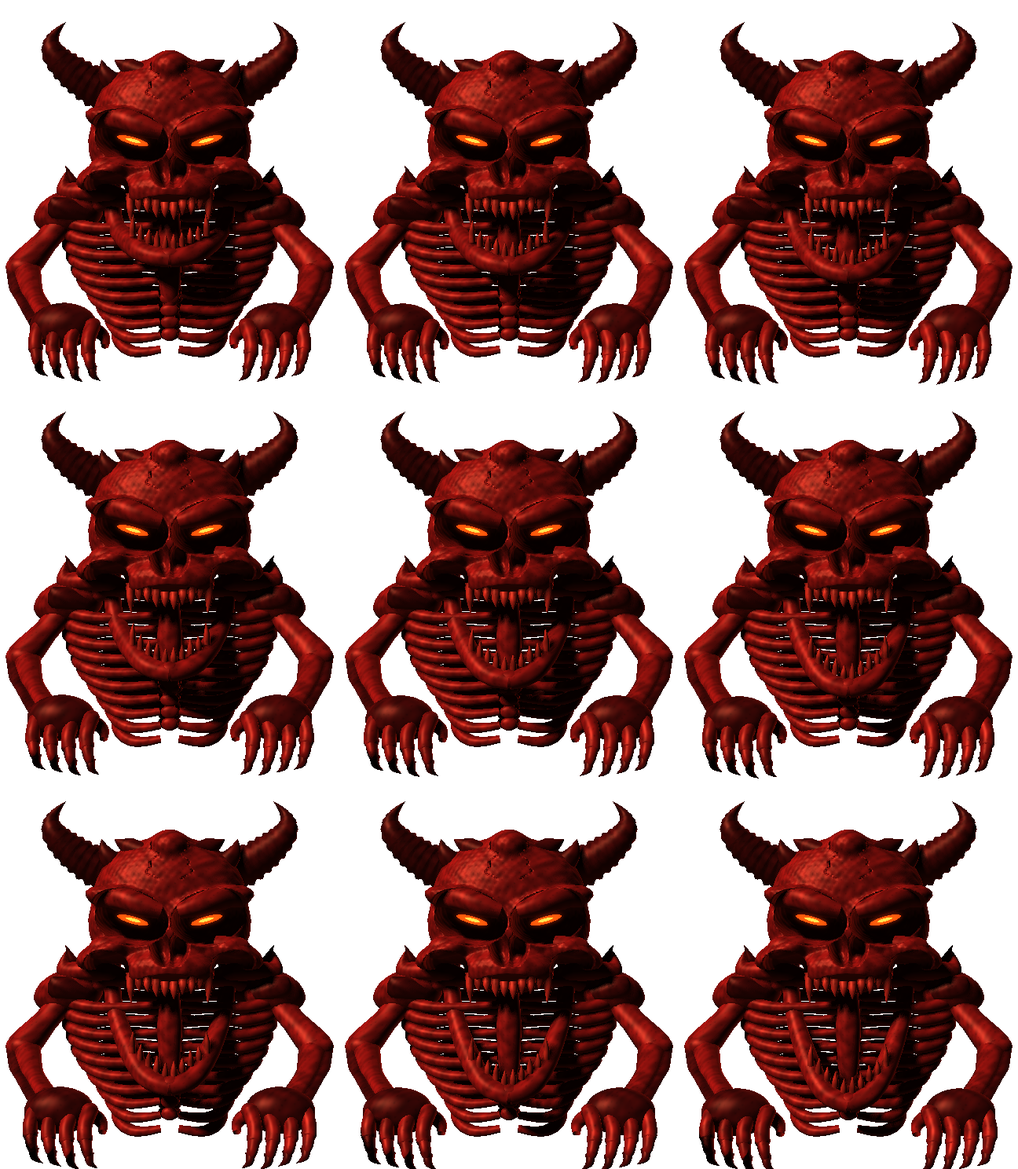
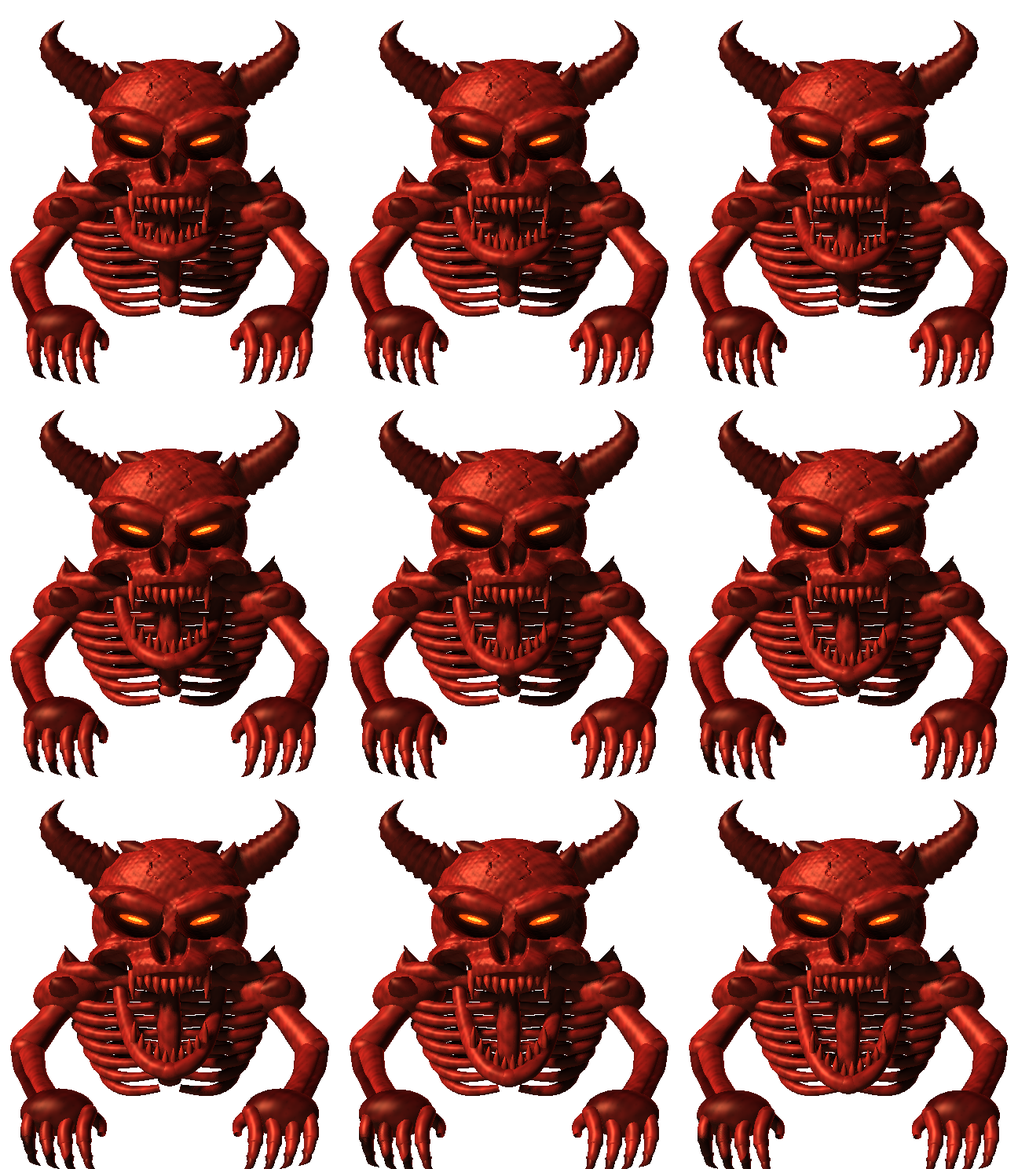
Refine SSL console ergonomics and restore natural Demon proportions

diff --git a/Source/PluginEditor.cpp b/Source/PluginEditor.cpp
@@ -29,8 +29,8 @@ static void paintSSLReduction(Graphics& g,Rectangle<float> r,float db,float peak
         g.setColour(Colour(0xffc9cfc1));g.setFont(font(7.8f,true));
         g.drawText(label,left,y,width*.62f,11,juce::Justification::centredLeft);
         g.drawText((output&&value<=-60.f)?juce::String("-INF"):juce::String(value,1),left+width*.55f,y,width*.45f,11,juce::Justification::centredRight);
-        for(int i=0;i<n;++i){const auto v=Rectangle<float>(left+i*step,y+12,step-.9f,8.f);const bool on=i<lit;const auto c=output?(i>=14?Colour(0xffef6150):i>=11?Colour(0xffd8ae44):Colour(0xff73cb67)):Colour(0xffe6ad51);
-            g.setGradientFill(juce::ColourGradient::vertical(on?c.brighter(.32f):Colour(0xff30342a),v.getY(),on?c.darker(.42f):Colour(0xff161915),v.getBottom()));g.fillRoundedRectangle(v,.65f);}
+        for(int i=0;i<n;++i){const float d=juce::jmin(4.3f,step-1.f);const auto v=Rectangle<float>(left+i*step+(step-d)*.5f,y+13,d,d);const bool on=i<lit;const auto c=output?(i>=14?Colour(0xffef6150):i>=11?Colour(0xffd8ae44):Colour(0xff73cb67)):Colour(0xffe6ad51);
+            g.setGradientFill(juce::ColourGradient::vertical(on?c.brighter(.32f):Colour(0xff30342a),v.getY(),on?c.darker(.42f):Colour(0xff161915),v.getBottom()));g.fillEllipse(v);}
     };
     line(r.getY()+7,"GR dB",std::abs(db)<.05f?0.f:-std::abs(db),juce::jlimit(0,n,int(std::ceil(std::abs(db)*n/20.f))),false);
     line(r.getY()+34,"OUT dBFS",peak,juce::jlimit(0,n,int(std::ceil((peak+60.f)*n/60.f))),true);
@@ -75,6 +75,14 @@ void KnobCell::setLightFace(bool light) {
 void KnobCell::setSprite(int) { slider.setSliderStyle(juce::Slider::RotaryVerticalDrag); }
 
 void KnobCell::resized() {
+    if(bool(slider.getProperties().getWithDefault("sslAux",false))&&!compact_){
+        const int size=juce::jmax(1,juce::jmin(getWidth()/2,getHeight()-3,43));
+        slider.setBounds(1,(getHeight()-size)/2,size,size);return;
+    }
+    if(bool(slider.getProperties().getWithDefault("sslSwitch",false))&&!compact_){
+        const int size=juce::jmax(1,juce::jmin(getWidth()-4,getHeight()-11,43));
+        slider.setBounds((getWidth()-size)/2,0,size,size);return;
+    }
     if(bool(slider.getProperties().getWithDefault("consoleCell",false))&&!compact_){
         const int size=juce::jmax(1,juce::jmin(getWidth()-2,getHeight()-20,bool(slider.getProperties().getWithDefault("dopeRow",false))?72:43));
         slider.setBounds((getWidth()-size)/2,juce::jmax(0,(getHeight()-size-20)/2),size,size);return;
@@ -97,6 +105,8 @@ void KnobCell::resized() {
 bool KnobCell::controlGeometryValid() const noexcept {
     const auto b=slider.getBounds();
     if(b.isEmpty()||!getLocalBounds().contains(b))return false;
+    if(bool(slider.getProperties().getWithDefault("sslAux",false)))return b.getWidth()==b.getHeight()&&b.getRight()+15<getWidth();
+    if(bool(slider.getProperties().getWithDefault("sslSwitch",false)))return b.getWidth()==b.getHeight()&&b.getBottom()+10<=getHeight();
     if(bool(slider.getProperties().getWithDefault("consoleCell",false)))return b.getWidth()==b.getHeight()&&b.getWidth()<=(bool(slider.getProperties().getWithDefault("dopeRow",false))?72:43)&&b.getBottom()+18<=getHeight();
     if(bool(slider.getProperties().getWithDefault("hushFader",false))&&!compact_)return b.getBottom()+28<=getHeight();
     if(b.getWidth()!=b.getHeight())return false;
@@ -152,9 +162,18 @@ void KnobCell::paint(Graphics& g) {
         return;
     }
     const int y=juce::jmin(getHeight()-30,slider.getBottom()+3);
+    if(bool(slider.getProperties().getWithDefault("sslAux",false))){
+        auto text=getLocalBounds().withTrimmedLeft(slider.getRight()+2);const int cy=getHeight()/2;
+        g.setColour(Colour(0xffe8e5d9));g.setFont(font(9.6f,true));g.drawFittedText(label_,text.withY(cy-10).withHeight(10),juce::Justification::centred,1);
+        g.setColour(Colour(0xffb4c2b9));g.setFont(font(9.4f));g.drawFittedText(text_,text.withY(cy).withHeight(11),juce::Justification::centred,1);return;
+    }
+    if(bool(slider.getProperties().getWithDefault("sslSwitch",false))){
+        g.setColour(Colour(0xffece9dc));g.setFont(font(9.f,true));
+        g.drawFittedText(label_,Rectangle<int>(0,getHeight()-11,getWidth(),11),juce::Justification::centred,1);return;
+    }
     if(bool(slider.getProperties().getWithDefault("consoleCell",false))){
         const int yy=juce::jmin(getHeight()-19,slider.getBottom()+1);
-        const float fs=bool(slider.getProperties().getWithDefault("dopeRow",false))?12.f:getWidth()<40?8.3f:9.7f;
+        const float fs=bool(slider.getProperties().getWithDefault("dopeRow",false))?12.f:getWidth()<40?8.9f:10.2f;
         g.setColour(lightFace_?Colour(0xff252322):Colour(0xffe3e1d9));g.setFont(font(fs,true));
         g.drawFittedText(label_,Rectangle<int>(0,yy,getWidth(),10),juce::Justification::centred,1);
         g.setColour(lightFace_?Colour(0xff37332a):Colour(0xffb4c2b9));g.setFont(font(fs));
@@ -261,7 +280,7 @@ void SlotComponent::rebuild() {
             const bool ext=type==SkellSSL&&j>=kMaxKnobs;
             const int extIndex=ext?j-kMaxKnobs:-1;
             Knob k=ext?sslControl(extIndex).knob:mi.knobs[j];
-            if(type==SkellSSL){if(j==0)k.label="E/G";if(extIndex==SslThreshold)k.label="THR BASE";if(extIndex==SslRatio)k.label="RATIO";}
+            if(type==SkellSSL){if(j==0)k.label="E/G";if(extIndex==SslThreshold)k.label="THRESH";if(extIndex==SslRatio)k.label="RATIO";}
             auto* param=proc.apvts.getParameter(ext?SkellierProcessor::sslId(index,extIndex):SkellierProcessor::knobId(index,j));
             auto cell=std::make_unique<KnobCell>(k.label,*param,[k,extIndex,type=type](double n){
                 if(type!=SkellSSL)return knobText(k,float(n));
@@ -285,11 +304,17 @@ void SlotComponent::rebuild() {
             if(type==SkellNoise&&j==0){cell->slider.getProperties().set("hushFader",true);cell->slider.setSliderStyle(juce::Slider::LinearVertical);}
             if(type==SkellSSL){
                 cell->slider.getProperties().set("consoleCell",true);
+                if(k.steps==2)cell->slider.getProperties().set("sslSwitch",true);
+                if(extIndex==SslHMQ||extIndex==SslLMQ||extIndex==SslOutput)cell->slider.getProperties().set("sslAux",true);
                 // Restore shared rotating Skelliere skull cap; keep compact console geometry.
                 static const unsigned caps[]={0xffa5a79e,0xffa16b3e,0xff32698f,0xff3b7650,0xffa92c31,0xffbb393b};
                 unsigned cap=ext?0xffa5a6a0:caps[j];
                 if(extIndex==SslInput||extIndex==SslOutput)cap=0xffb6443c;
                 if(extIndex==SslHP||extIndex==SslLP)cap=0xff51865d;
+                if(extIndex==SslHFFreq)cap=0xffa92c31;
+                if(extIndex==SslHMFreq||extIndex==SslHMQ)cap=0xff3b7650;
+                if(extIndex==SslLMFreq||extIndex==SslLMQ)cap=0xff32698f;
+                if(extIndex==SslLFFreq)cap=0xffa16b3e;
                 if(extIndex==SslExpThreshold)cap=0xff41865b;
                 if(extIndex==SslThreshold)cap=0xffb63a33;
                 cell->slider.getProperties().set("houseTint",juce::String::toHexString(int(cap)));
@@ -482,18 +507,21 @@ void SlotComponent::paintNativeFace(Graphics& g) {
         const auto layout=originalLayout(type,w,editing);
         if(!layout.detail.isEmpty()){if(type==SkellDemon)paintDemonDetail(pg,layout.detail.toFloat());else if(isAirPanel(type))paintAirDetail(pg,layout.detail.toFloat(),type);else if(type==Reverb||type==Chorus)paintSpaceDetail(pg,layout.detail.toFloat(),type);else if(type==Sat||type==SoftClip||type==Eq||type==Tremolo||type==Phaser||type==Stereo||type==Transient)paintWorkshopDetail(pg,layout.detail.toFloat(),type);else paintTapeDetail(pg,layout.detail.toFloat(),type==Delay&&nativeChoice==1);}
         if(type==SkellSSL){
-            const int lane=(w-24)/2;
-            pg.setColour(Colour(0xff202321));pg.fillRect(10,75,w-20,tallPanelY(548)-75);
-            paintPeened(pg,Rectangle<float>(10,75,float(w-20),float(tallPanelY(548)-75)),.53f);
-            paintAnalogWear(pg,Rectangle<float>(10,75,float(w-20),float(tallPanelY(548)-75)),false,4632,.48f);
-            pg.setColour(Colour(0xff292d2c));pg.drawVerticalLine(12+lane,75,tallPanelY(548));
+            const int lane=(w-22)/2;
+            const auto console=Rectangle<float>(8,75,float(w-16),float(tallPanelY(548)-75));
+            pg.setGradientFill(juce::ColourGradient::vertical(Colour(0xff343836),console.getY(),Colour(0xff212422),console.getBottom()));pg.fillRect(console);
+            paintPeened(pg,console,.62f);
+            paintAnalogWear(pg,console,false,4632,.42f);
+            pg.setColour(Colour(0xff121715));pg.drawVerticalLine(10+lane,75,tallPanelY(548));
+            pg.setColour(Colour(0xff6c7169).withAlpha(.55f));pg.drawVerticalLine(11+lane,75,tallPanelY(548));
             auto section=[&](int x,int y,int ww,const char* label){
-                pg.setColour(Colour(0xff5c625e).withAlpha(.8f));y=tallPanelY(y);pg.drawHorizontalLine(y,float(x),float(x+ww));
-                pg.setColour(Colour(0xffdfdfd4));pg.setFont(font(9.f,true).withExtraKerningFactor(.025f));
+                y=tallPanelY(y);pg.setColour(Colour(0xff080b09).withAlpha(.66f));pg.drawHorizontalLine(y,float(x),float(x+ww));
+                pg.setColour(Colour(0xffc5c8bb).withAlpha(.36f));pg.drawHorizontalLine(y+1,float(x),float(x+ww));
+                pg.setColour(Colour(0xfff2f0e5));pg.setFont(font(10.f,true).withExtraKerningFactor(.02f));
                 pg.drawFittedText(label,Rectangle<int>(x+2,y+2,ww-4,15),juce::Justification::centredLeft,1);
             };
-            section(10,85,lane-2,"INPUT");section(10,157,lane-2,"FILTERS");section(10,229,lane-2,"COMPRESSOR");section(10,351,lane-2,"GATE / EXP");section(10,473,lane-2,"OUTPUT");
-            section(14+lane,85,lane-2,"EQUALIZER / HF");section(14+lane,175,lane-2,"HMF");section(14+lane,265,lane-2,"LMF");section(14+lane,355,lane-2,"LF");section(14+lane,445,lane-2,"DYNAMICS / OUT");
+            section(9,84,lane-2,"INPUT");section(9,160,lane-2,"FILTERS");section(9,233,lane-2,"COMPRESSOR");section(9,355,lane-2,"GATE / EXP");section(9,474,lane-2,"OUTPUT");
+            section(13+lane,84,lane-2,"EQUALIZER / HF");section(13+lane,174,lane-2,"HMF");section(13+lane,265,lane-2,"LMF");section(13+lane,356,lane-2,"LF");section(13+lane,452,lane-2,"DYNAMICS / OUT");
             paintSSLReduction(pg,layout.meter.toFloat(),0,-60,true);
         }
         else if(type==SkellDope){

diff --git a/tools/render_demon_relief.py b/tools/render_demon_relief.py
@@ -14,7 +14,7 @@ import argparse
 
 W,H=432,496
 FRAMES=9
-SCALE=155.0
+SCALE=157.0
 CAM=4.1
 
 class Mesh:
@@ -76,15 +76,15 @@ def skull_mesh(mesh):
         h=np.maximum(k-np.abs(a-b),0)/k;return np.minimum(a,b)-h*h*k*.25
     s=e((0,.47,.08),(.48,.415,.35))
     s=union(s,e((0,.20,.19),(.345,.29,.30)))
-    s=union(s,e((0,.77,.20),(.14,.13,.21)),.035)
+    s=union(s,e((0,.64,.19),(.115,.15,.16)),.035)
     s=union(s,e((0,-.018,.335),(.295,.145,.23)))
     for side in (-1,1):
-        s=union(s,e((side*.365,.095,.27),(.21,.095,.207),-side*.42))
+        s=union(s,e((side*.345,.095,.24),(.184,.081,.185),-side*.42))
         s=union(s,e((side*.235,.405,.35),(.267,.096,.155),side*.24),.025)
         s=union(s,e((side*.365,.29,.09),(.145,.24,.24)),.03)
         # Outer edge of the orbit higher, inner lower: threatening brow.
-        s=np.maximum(s,-e((side*.238,.305,.445),(.237,.172,.40),side*.31))
-        s=np.maximum(s,-e((side*.365,-.015,.415),(.139,.113,.235),side*.30))
+        s=np.maximum(s,-e((side*.228,.305,.445),(.196,.146,.40),side*.32))
+        s=np.maximum(s,-e((side*.345,-.015,.415),(.132,.104,.245),side*.30))
         s=np.maximum(s,-e((side*.048,.105,.487),(.062,.12,.205),-side*.24))
     s=np.maximum(s,-e((0,-.188,.53),(.29,.138,.27)))
     # Fine nonuniform erosion, subdued enough to keep a continuous skull.
@@ -107,17 +107,17 @@ def skull_mesh(mesh):
 def build_static():
     m=Mesh()
     # Back spine and six separate curved ribs, no flat diagram lines.
-    for i in range(16):ellipsoid(m,(0,-.20-i*.073,-.16),(.101,.052,.094),3)
+    for i in range(12):ellipsoid(m,(0,-.20-i*.073,-.16),(.093,.052,.084),3)
     for side in (-1,1):
         X=lambda x:side*x
-        for i in range(10):
-            y=-.255-i*.105;w=.70-i*.032
+        for i in range(7):
+            y=-.255-i*.104;w=.67-i*.040
             tube(m,[(X(.06),y+.04,-.17),(X(w*.72),y+.065,-.11),(X(w),y-.015,.10),(X(w*.72),y-.10,.27),(X(.07),y-.08,.30)], [.046,.051,.057,.042,.028],0,32,16)
         tube(m,[(X(.04),-.20,.22),(X(.34),-.14,.23),(X(.56),-.19,.12),(X(.68),-.14,.06)],[.065,.065,.074,.05],0,22)
         # Scapula spike and skeletal shoulder joint.
         tube(m,[(X(.45),-.23,-.02),(X(.64),-.15,-.02),(X(.87),.13,-.07)],[.14,.092,.002],3,18)
-        ellipsoid(m,(X(.70),-.245,.10),(.239,.186,.184),0)
-        tube(m,[(X(.70),-.25,.11),(X(.77),-.44,.20),(X(.87),-.64,.35)],[.123,.094,.105],0,22,18)
+        ellipsoid(m,(X(.70),-.245,.10),(.257,.201,.201),0)
+        tube(m,[(X(.70),-.25,.11),(X(.77),-.44,.20),(X(.87),-.64,.35)],[.144,.102,.112],0,22,18)
         ellipsoid(m,(X(.87),-.64,.35),(.105,.09,.095),0)
         tube(m,[(X(.85),-.65,.36),(X(.76),-.81,.60),(X(.66),-.91,.85)],[.082,.057,.062],0,22,18)
         tube(m,[(X(.93),-.65,.33),(X(.84),-.83,.59),(X(.74),-.93,.84)],[.050,.043,.049],3,18)
@@ -130,11 +130,11 @@ def build_static():
         # Small horn roots join the cranium, avoiding floating cones.
         ellipsoid(m,(X(.37),.68,.04),(.16,.17,.14),0)
     # Front sternum and rib anchors.
-    tube(m,[(0,-.25,.28),(0,-.48,.32),(0,-.80,.31),(0,-1.13,.26)],[.066,.078,.064,.024],0,40,18)
-    for i in range(10):ellipsoid(m,(0,-.34-i*.091,.32),(.063,.050,.031),0)
+    tube(m,[(0,-.25,.28),(0,-.48,.32),(0,-.80,.31),(0,-.90,.26)],[.066,.078,.060,.024],0,40,18)
+    for i in range(7):ellipsoid(m,(0,-.34-i*.091,.32),(.063,.050,.031),0)
     # Broaden the shoulder girdle, keep the ribs and sternum in perspective.
     for k in range(len(m.v)):
-        vv=m.v[k]; factor=1.0+.26*np.clip((-vv[:,1]+.12)/.65,0,1)*np.clip((vv[:,1]+1.18)/.40,0,1)
+        vv=m.v[k]; factor=1.0+.21*np.clip((-vv[:,1]+.12)/.65,0,1)*np.clip((vv[:,1]+1.18)/.40,0,1)
         vv[:,0]*=factor
         m.n[k][:,0]/=factor
         m.n[k]/=np.maximum(np.linalg.norm(m.n[k],axis=1,keepdims=True),1e-8)
@@ -147,7 +147,7 @@ def build_static():
         ellipsoid(m,(side*.222,.300,.275),(.098,.024,.028),1,side*.30)
         ellipsoid(m,(side*.217,.299,.302),(.046,.010,.013),4,side*.30)
         # Sharper zygomatic spurs and brow ridge, receding in the temple.
-        tube(m,[(side*.27,.135,.36),(side*.41,.11,.37),(side*.48,.06,.22)],[.059,.071,.009],0,20,16)
+        tube(m,[(side*.25,.135,.35),(side*.37,.11,.34),(side*.43,.06,.22)],[.047,.058,.009],0,20,16)
         tube(m,[(side*.11,.73,.25),(side*.24,.79,.19),(side*.34,.86,.10)],[.056,.065,.009],3,18,16)
         # Spiked cranial ridge, framing the angry face.
         tube(m,[(side*.30,.65,.14),(side*.39,.75,.15),(side*.43,.87,.08)],[.087,.055,.002],3,18,14)
@@ -158,19 +158,19 @@ def build_static():
         tube(m,[(x,y,z),(x,y-l*.53,z+.014),(x*.98,y-l,z+.002)],[.027,.022,.004],2,10,12)
     # Bring the skull toward the listener; keep the horns anchored to the cranium.
     for k in range(head_start,len(m.v)):
-        m.v[k][:,0]*=1.25;m.v[k][:,1]=.27+(m.v[k][:,1]-.27)*1.15;m.v[k][:,2]+=.07
-        m.n[k][:,0]/=1.25;m.n[k][:,1]/=1.15;m.n[k]/=np.maximum(np.linalg.norm(m.n[k],axis=1,keepdims=True),1e-8)
+        m.v[k][:,0]*=1.18;m.v[k][:,1]=.27+(m.v[k][:,1]-.27)*1.10;m.v[k][:,2]+=.07
+        m.n[k][:,0]/=1.18;m.n[k][:,1]/=1.10;m.n[k]/=np.maximum(np.linalg.norm(m.n[k],axis=1,keepdims=True),1e-8)
     return m
 
 def add_jaw(m,open_amt):
     # Hinge-driven 3D jaw, rotating the chin forward and down, not a flat mouth overlay.
     # Y displacement grows toward the front of the mandible.
     def pose(p):
-        x,y,z=p;w=np.clip((z-.11)/.44,0,1);return (x*1.25,.27+(y-open_amt*.40*w-.27)*1.15,z+open_amt*.083*w+.07)
+        x,y,z=p;w=np.clip((z-.11)/.44,0,1);return (x*1.18,.27+(y-open_amt*.33*w-.27)*1.10,z+open_amt*.083*w+.07)
     for side in (-1,1):
         X=lambda x:side*x
-        points=[(X(.36),.015,.09),(X(.34),-.235,.17),(X(.235),-.36,.36),(X(.13),-.414,.49),(0,-.435,.53)]
-        tube(m,[pose(p) for p in points],[.069,.067,.078,.070,.065],0,34,18)
+        points=[(X(.33),.015,.09),(X(.31),-.22,.17),(X(.226),-.35,.36),(X(.122),-.405,.49),(0,-.427,.53)]
+        tube(m,[pose(p) for p in points],[.062,.059,.068,.063,.059],0,34,18)
     ellipsoid(m,pose((0,-.423,.53)),(.10,.063,.059),0)
     for i in range(10):
         x=(i-4.5)*.047;z=.523-.085*(abs(x)/.22)**1.4;y=-.386+.018*abs(i-4.5)
@@ -181,7 +181,7 @@ def add_hands(m,amt):
     # Foreground joints and claws reach past the window frame in perspective.
     for side in (-1,1):
         X=lambda x:side*x;reach=amt*.16
-        ellipsoid(m,(X(.69),-.935,.86+reach),(.218,.143,.121),3)
+        ellipsoid(m,(X(.69),-.935,.86+reach),(.231,.142,.129),3)
         for i in range(4):
             x=.49+i*.112;y=-.93+(.012*abs(i-1));z=.875+.015*(3-i)+reach
             ellipsoid(m,(X(x),y,z),(.052,.045,.049),0)
@@ -239,11 +239,13 @@ def render(mesh):
     # Pitted, ridged bone rather than polished plastic. Multi-frequency material
     # variation is spatially stable over all nine animation frames.
     pore=np.sin(pp[:,0]*113+np.sin(pp[:,1]*57))*np.sin(pp[:,1]*127+np.sin(pp[:,2]*63))*np.sin(pp[:,2]*131+pp[:,0]*61)
-    texture=.79+.11*np.sin(pp[:,0]*39+2*np.sin(pp[:,1]*31)+np.sin(pp[:,2]*45))+.065*np.sin(pp[:,1]*59+2*np.sin(pp[:,2]*36+pp[:,0]*23))+.046*np.sin(pp[:,2]*140+pp[:,0]*97)-.17*np.maximum(pore,0)**3
-    colors=np.array([[.48,.050,.037],[1.0,.14,.008],[.66,.108,.064],[.24,.025,.020],[1.,.58,.12]])[mat[mask]]
+    texture=.83+.10*np.sin(pp[:,0]*39+2*np.sin(pp[:,1]*31)+np.sin(pp[:,2]*45))+.065*np.sin(pp[:,1]*59+2*np.sin(pp[:,2]*36+pp[:,0]*23))+.046*np.sin(pp[:,2]*140+pp[:,0]*97)-.12*np.maximum(pore,0)**3
+    colors=np.array([[.52,.070,.051],[1.0,.14,.008],[.66,.108,.064],[.24,.025,.020],[1.,.58,.12]])[mat[mask]]
     rgb=colors*texture[:,None]*(.049+1.43*D[:,None]*vis[:,None])
-    rgb+=np.array([.61,.065,.030])*rim[:,None]*(.50+.50*fres[:,None])
-    rgb+=np.array([.93,.46,.29])*spec[:,None]*(.19+.16*texture[:,None])
+    rgb+=np.array([.54,.067,.035])*rim[:,None]*(.45+.55*fres[:,None])
+    rgb+=np.array([.96,.56,.35])*spec[:,None]*(.28+.18*texture[:,None])
+    # Subtle warm bounce from the crimson enclosure and cold upper-edge reflection.
+    rgb+=np.array([.14,.052,.032])*np.maximum(N@np.array([-.38,-.26,.72]),0)[:,None]*(.45+.55*texture[:,None])
     # Subtle red up-light, keeps shadows deep rather than flattening into orange.
     rgb+=np.array([.085,.010,.005])*np.maximum(-N[:,1],0)[:,None]
     emissive=mat[mask]==1;hot=mat[mask]==4

diff --git a/Source/OriginalPanel.h b/Source/OriginalPanel.h
@@ -41,36 +41,35 @@ inline OriginalLayout originalLayoutBase(int type,int width,bool editing=false) 
     if(type==Delay||type==Slap||type==Air||type==SkellAirFX||type==Reverb||type==Chorus||type==Sat||type==SoftClip||type==Eq||type==Tremolo||type==Phaser||type==Stereo||type==Transient)l.detail={16,106,width-32,120};
     if(type==Eq)l.detail.setHeight(82);
     if(type==SkellDemon){
-        l.detail={7,101,width-14,290};
-        const int cw=(width-24)/3,rh=(editing?519:547)-394;
-        for(int k=0;k<6;++k)l.cells[k]={12+(k%3)*cw,394+(k/3)*(rh/2),cw,rh/2-3};
+        l.detail={7,101,width-14,258};
+        const int cw=(width-24)/3,rh=(editing?519:547)-366;
+        for(int k=0;k<6;++k)l.cells[k]={12+(k%3)*cw,366+(k/3)*(rh/2),cw,rh/2-3};
         return l;
     }
     if(type==SkellSSL){
-        // Console proportions: compact input/filter/dynamics on the left,
-        // four full EQ bands on the right. The six original automation slots
-        // and the appended SSL controls are placed independently.
-        const int lane=(width-24)/2, left=10,right=14+lane;
+        // Staggered console topology: original control attachments unchanged.
+        const int lane=(width-22)/2, left=9,right=13+lane;
         auto row=[&](int x,int y,int h,std::initializer_list<int> ids){const int n=int(ids.size()),cw=lane/n;int i=0;for(int j:ids){l.cells[j]={x+i*cw,y,cw,h};++i;}};
         auto e=[](int i){return kMaxKnobs+i;};
-        row(left,102,53,{e(SslInput),e(SslPhase),0});
-        row(left,174,53,{e(SslHP),e(SslLP)});
-        row(left,246,53,{e(SslThreshold),e(SslRatio),5});
-        row(left,300,49,{e(SslRelease),e(SslFast)});
-        row(left,368,51,{e(SslExpThreshold),e(SslExpRange)});
-        row(left,420,51,{e(SslExpRelease),e(SslGate)});
-        row(left,484,43,{e(SslOutput)});
-        // Console EQ: primary coloured gain at left, frequency and shape/Q
-        // stacked at right, like a physical channel strip rather than three
-        // equal-width knobs. Leave every original parameter attached.
-        auto band=[&](int y,int gain,int freq,int shape){const int a=lane/2,b=lane-a;
-            l.cells[gain]={right,y,a,71};
-            l.cells[freq]={right+a,y,b,35};
-            l.cells[shape]={right+a,y+36,b,35};};
-        band(103,4,e(SslHFFreq),e(SslHFBell));
-        band(193,3,e(SslHMFreq),e(SslHMQ));
-        band(283,2,e(SslLMFreq),e(SslLMQ));
-        band(373,1,e(SslLFFreq),e(SslLFBell));
+        const int a=lane/2,b=lane-a;
+        l.cells[e(SslInput)]={left,100,a,58};
+        l.cells[e(SslPhase)]={left+a,100,b,29};
+        l.cells[0]={left+a,129,b,29};
+        row(left,177,54,{e(SslHP),e(SslLP)});
+        row(left,250,50,{e(SslThreshold),e(SslRatio)});
+        row(left,302,48,{e(SslRelease),5,e(SslFast)});
+        row(left,373,50,{e(SslExpThreshold),e(SslExpRange)});
+        row(left,425,48,{e(SslExpRelease),e(SslGate)});
+        l.cells[e(SslOutput)]={left,489,lane,38};
+        // Diagonal mid-band layout: gain and Q on left, frequency on right.
+        auto shelf=[&](int y,int gain,int freq,int shape){
+            l.cells[gain]={right,y+3,a,65};l.cells[freq]={right+a,y,b,44};l.cells[shape]={right+a,y+45,b,27};};
+        auto midBand=[&](int y,int gain,int freq,int q){
+            l.cells[gain]={right,y,a,43};l.cells[q]={right,y+44,a,28};l.cells[freq]={right+a,y+8,b,62};};
+        shelf(100,4,e(SslHFFreq),e(SslHFBell));
+        midBand(191,3,e(SslHMFreq),e(SslHMQ));
+        midBand(282,2,e(SslLMFreq),e(SslLMQ));
+        shelf(373,1,e(SslLFFreq),e(SslLFBell));
         l.meter={right+1,463,lane-3,64};return l;
     }
     if(type==SkellDope){
@@ -483,7 +482,13 @@ inline const juce::Image& infernalBackdrop();
 inline void paintDemonDetail(Graphics& g,juce::Rectangle<float> r,float phase=0,float level=0,bool frame=true){
     if(!demonReliefIsValid()){paintDemonVectorFallback(g,r,phase,level,frame);return;}
     const auto win=r.withTrimmedBottom(22.f);const auto a=win.reduced(5.f);
-    if(frame){paintHardwarePlate(g,win,Colour(0xff341218),false,6.f,3.f);return;}
+    if(frame){
+        paintHardwarePlate(g,win,Colour(0xff381c16),false,6.f,3.f);
+        g.setColour(Colour(0xffbd8150).withAlpha(.78f));g.drawRoundedRectangle(win.reduced(2.f),4.f,.9f);
+        g.setColour(Colour(0xff080505));g.drawRoundedRectangle(win.reduced(4.f),3.5f,1.2f);
+        for(int k=0;k<4;++k)paintScrew(g,k%2?win.getRight()-4.5f:win.getX()+4.5f,k<2?win.getY()+4.5f:win.getBottom()-4.5f,2.7f,.7f*k);
+        return;
+    }
     juce::Graphics::ScopedSaveState clip(g);g.reduceClipRegion(r.toNearestInt());
     g.setGradientFill(juce::ColourGradient(Colour(0xff5b140f),a.getCentreX(),a.getY()+a.getHeight()*.53f,Colour(0xff090306),a.getRight(),a.getBottom(),true));g.fillRoundedRectangle(a,4.f);
     {juce::Graphics::ScopedSaveState bg(g);g.reduceClipRegion(a.toNearestInt());
@@ -492,7 +497,7 @@ inline void paintDemonDetail(Graphics& g,juce::Rectangle<float> r,float phase=0,
         for(int i=0;i<28;++i){const float x=a.getX()+float((i*43)%100)*a.getWidth()/100.f,y=a.getBottom()-std::fmod(i*23.f+phase*12.f,a.getHeight());g.setColour(Colour(0xffff7031).withAlpha(.15f+.19f*level));g.fillEllipse(x,y,1.1f,2.8f);}
     }
     const int index=juce::jlimit(0,8,int(std::round(8.f*juce::jlimit(0.f,1.f,.5f+.43f*std::sin(phase*2.7f-.7f)+.12f*level))));
-    const auto& atlas=demonReliefAtlas();const auto dst=r.expanded(5.f,0.f);g.setImageResamplingQuality(juce::Graphics::highResamplingQuality);g.setOpacity(1.f);
+    const auto& atlas=demonReliefAtlas();const float dw=r.getWidth()+27.f,dh=dw*496.f/432.f;const auto dst=juce::Rectangle<float>(r.getCentreX()-dw*.5f,r.getBottom()-dh+1.f,dw,dh);g.setImageResamplingQuality(juce::Graphics::highResamplingQuality);g.setOpacity(1.f);
     g.drawImage(atlas, dst.getX(),dst.getY(),dst.getWidth(),dst.getHeight(),(index%3)*432,(index/3)*496,432,496);
 }
 // Distinct patina/finish per module. Static faceplate cache only, no audio dependency.
@@ -555,7 +560,9 @@ inline void paintOriginalSurface(Graphics& g,juce::Rectangle<float> r,int type,i
     g.setGradientFill(juce::ColourGradient::vertical(Colour(0xffdfc8ab).withAlpha(p.light?.32f:.15f),f.getY(),juce::Colours::transparentWhite,f.getY()+5.f));g.fillRect(f.withHeight(4.f));
     g.setGradientFill(juce::ColourGradient::vertical(juce::Colours::transparentBlack,f.getBottom()-8.f,juce::Colours::black.withAlpha(.30f),f.getBottom()));g.fillRect(f.withY(f.getBottom()-8.f).withHeight(8.f));
     paintIdentityFinish(g,f,type,p.light);
-    paintAnalogWear(g,f,p.light,0x521d+type*179+finish*11,1.30f);
+    paintAnalogWear(g,f,p.light,0x521d+type*179+finish*11,1.22f);
+    g.setColour((p.light?Colour(0xfffcf2d7):Colour(0xffc2b49a)).withAlpha(.25f));g.drawRoundedRectangle(r.reduced(3.f),5.f,.55f);
+    g.setColour(juce::Colours::black.withAlpha(.62f));g.drawRoundedRectangle(r.reduced(5.f),4.f,.65f);
     g.setColour(p.accent.withAlpha(p.light?.20f:.32f));g.drawRoundedRectangle(r.reduced(7.5f),3.5f,.55f);
     for(int i=0;i<4;++i)paintScrew(g,i%2?r.getRight()-15:r.getX()+15,i<2?r.getY()+15:r.getBottom()-15,6.8f,.8f*i);
 }

diff --git a/Source/Look.h b/Source/Look.h
@@ -648,6 +648,17 @@ public:
         const bool light=bool(s.getProperties().getWithDefault("lightFace",false));
         const bool utility=size<61.f;
         const float p=juce::jlimit(0.f,1.f,pos),angle=a0+p*(a1-a0);
+        if(bool(s.getProperties().getWithDefault("sslSwitch",false))){
+            // Console-style latching key: shows the actual selected state.
+            const auto names=juce::StringArray::fromTokens(s.getProperties().getWithDefault("switchLabels",juce::var("0,1")).toString(),",","");
+            auto key=juce::Rectangle<float>(cx-size*.44f,cy-size*.23f,size*.88f,size*.46f);
+            g.setColour(Colour(0xff0b0d0c));g.fillRoundedRectangle(key.expanded(2.f),2.f);
+            g.setColour(Colour(0xff666963));g.drawRoundedRectangle(key.expanded(1.f),2.f,.7f);
+            const auto top=p>=.5f?Colour(0xffe6b56a):Colour(0xffe1e0d6),bottom=p>=.5f?Colour(0xff97652c):Colour(0xff858b83);
+            g.setGradientFill(juce::ColourGradient::vertical(top,key.getY(),bottom,key.getBottom()));g.fillRoundedRectangle(key,1.3f);
+            g.setColour(Colour(0xfffbf7dd).withAlpha(.7f));g.drawHorizontalLine(int(key.getY()+1),key.getX()+2,key.getRight()-2);
+            g.setColour(Colour(0xff151b18));g.setFont(font(juce::jlimit(8.f,10.f,size*.23f),true));g.drawFittedText(names[p>=.5f?1:0],key.toNearestInt(),juce::Justification::centred,1);return;
+        }
         if(bool(s.getProperties().getWithDefault("colorSwitch",false))){
             const bool isDope=bool(s.getProperties().getWithDefault("dopeSwitch",false));
             auto r=juce::Rectangle<float>(cx-size*(isDope?.38f:.31f),cy-size*(isDope?.40f:.35f),size*(isDope?.76f:.62f),size*(isDope?.80f:.70f));

diff --git a/docs/SSL_REFERENCE_AND_DEMON_COMPOSITION_20261127.md b/docs/SSL_REFERENCE_AND_DEMON_COMPOSITION_20261127.md
@@ -1,0 +1,16 @@
+# SSL reference and Demon composition pass — 2026-11-27
+
+Base: 7797fff8ac75f83cc59ee9897c1d9e6e9fc59af6. Visual/interaction-layout change only; no DSP, host IDs, preset formats or effect identities changed.
+
+- Reference: supplied TVB 4000E-style image, SSL 4K E, Waves EV2 and Brainworx 4000 E. Staggered mid-band gain/Q and frequency, separate shelf shape keys, left input/filter/compressor/gate/output sections. All 27 live bindings preserved. Compact keys display actual selected state; existing aggregate gain-reduction/output peak use dot LED ladders. Keep the existing skull knob family.
+- Undo the extended rib cage, shorter seven-rib torso, natural atlas aspect ratio, shorter artwork chamber, new orbital/cheek/jaw/shoulder geometry, brass-edged recessed frame and foreground claws. Nine native animation frames retained.
+- Finer shared rail highlight and shadow, restrained analog wear. Keep Dope and RubyQ approved controls.
+
+Verified all 13 offline-kit checksum entries. Cached JUCE 8.0.12, three native UI builds using O0 compilation of the changed UI translation units with cached objects. Three 4-scene target captures passed; corrected Q legend/divider overlap after first inspection. Final 37/37 editor capture audit passed; 16 artwork-motion checks, all 33 effects inspected through catalog/engine/color captures. Portable suite exit 0, including 24 sample-identical legacy SSL renders, 48 bypass cases, original tape-kernel parity and rack geometry checks.
+
+References:
+- https://support.solidstatelogic.com/hc/en-gb/articles/14959276554525-SSL-4K-E-Channel-Strip-Plug-in-User-Guide
+- https://www.waves.com/plugins/ssl-ev2-channel
+- https://www.plugin-alliance.com/products/bx_console-ssl-4000-e
+
+Remaining: procedural Demon still stylized; SSL not an exact visual copy. No new audio parity or optimized Windows VST3/FL Studio verification claims. Keep draft until CI and host testing.
